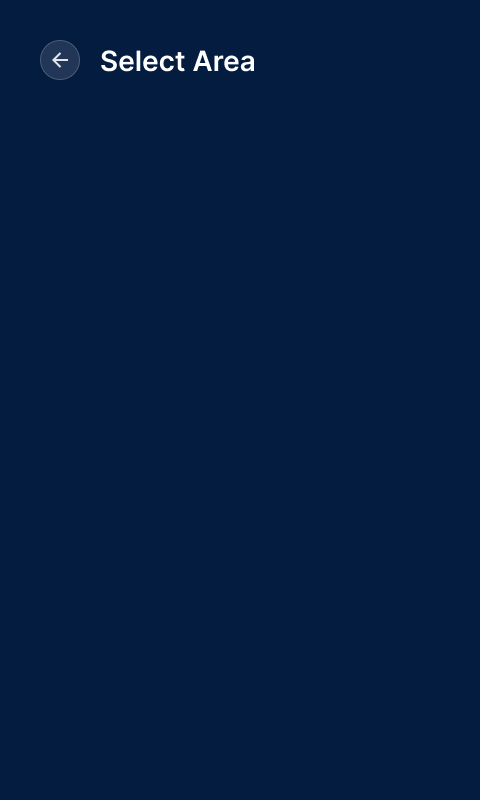
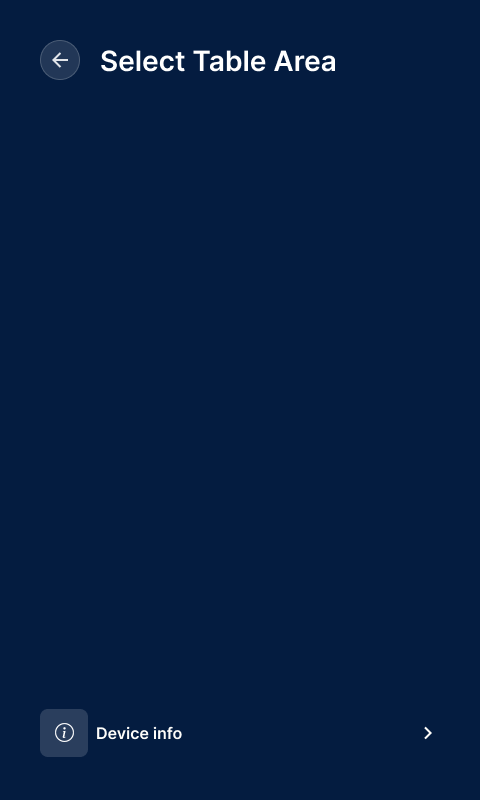
ADD: new flow

Changed region(s): [[0.0625, 0.875, 0.375, 0.9688], [0.4062, 0.0625, 0.7188, 0.0938], [0.875, 0.9062, 0.9062, 0.9375]]

diff --git a/qt-app/main.py b/qt-app/main.py
@@ -406,6 +406,66 @@ class IdleLockScreen(QDialog):
             return
         navigateToScreen(WaiterPinScreen)
 
+class WaiterSelectionScreen(QDialog):
+    shared_instance=None
+    @staticmethod
+    def getInstance():
+        if(WaiterSelectionScreen.shared_instance == None):
+            WaiterSelectionScreen.shared_instance = WaiterSelectionScreen()
+        return WaiterSelectionScreen.shared_instance
+    def __init__(self):
+        super(WaiterSelectionScreen, self).__init__()
+        loadUi("ui/WaiterSelectionScreen.ui", self)
+        self.backButton.clicked.connect(self.navigateBack)
+        self.listWidget.itemClicked.connect(self.waiterSelected)
+        self.listWidget.setStyleSheet(
+                                  "QListView"
+                                  "{"
+                                    "background-color:#041c40;"
+                                    "font-size:20px;"
+                                    "color:white;"
+                                    "border:0px;"
+                                  "}"
+                                  "QListView::item"
+                                  "{"
+                                    "background-color: #182e4f;"
+                                    "color:white;"
+                                    "margin-bottom: 15px;"
+                                    "border-radius: 10px;"
+                                    "padding: 12px 12px 12px 12px;"
+                                    "padding-top:24px;"
+                                    "padding-bottom:24px;"
+                                    "margin-right:20px;"
+                                  "}"
+                                  "QListView::item:selected"
+                                  "{"
+                                    "background-color: #c09c56;"
+                                    "color:#041C40;"
+                                  "}"
+                                  )
+    def navigateBack(self):
+        navigateGoBack()
+    def clear(self):
+        self.loadWaiters()
+        pass
+    def loadWaiters(self):
+
+        self.listWidget.clear()
+        for waiter in storage["waiters"]:
+            item = QListWidgetItem(waiter['firstName'])
+            item.setSizeHint(QSize(360, 80))
+            self.listWidget.addItem(item)
+    def waiterSelected(self,item):
+        global currentWaiter,waiterId
+        waiterName = item.text()
+        for waiter in storage["waiters"]:
+            if waiterName == waiter["firstName"]:
+                waiterId = waiter["referenceId"][1:]
+                currentWaiter = waiter
+                navigateToScreen(ChooseNumberOfGuests)
+
+
+
 class WaiterPinScreen(QDialog):
     pin=[]
     signal = pyqtSignal()
@@ -417,6 +477,9 @@ class WaiterPinScreen(QDialog):
         if(WaiterPinScreen.shared_instance == None):
             WaiterPinScreen.shared_instance = WaiterPinScreen()
         return WaiterPinScreen.shared_instance
+    
+
+
     def __init__(self):
         super(WaiterPinScreen, self).__init__()
         self.pin=[]
@@ -807,6 +870,7 @@ class AreaSelectionScreen(QDialog):
         # self.goToNextButton.clicked.connect(self.navigateToWaiterMenuScreen)
         self.listWidget.itemClicked.connect(self.tableSelected)
         self.backButton.clicked.connect(self.navigateGoBackSlot)
+        self.goToAboutScreenButton.clicked.connect(self.navigateToAboutScreen)
         self.listWidget.setStyleSheet(
                                   "QListView"
                                   "{"
@@ -846,7 +910,8 @@ class AreaSelectionScreen(QDialog):
 
     def navigateGoBackSlot(self):
         navigateGoBack()
-
+    def navigateToAboutScreen(self):
+        navigateToScreen(AboutScreen)
     def clear(self): 
         pass
         # self.confirmSelectionButton.setVisible(False)
@@ -904,7 +969,7 @@ class AreaSelectionScreen(QDialog):
     def navigateToIdleLockScreen(self):
 
         navigateToRestart()
-    
+
 class TableSelectionScreen(QDialog):
     shared_instance = None
     currentPage = 1
@@ -1045,19 +1110,22 @@ class TableSelectionScreen(QDialog):
         saveStorage()
 
 
-        if firstJourney:
-            firstJourney = False
-            navigateToScreen(IdleLockScreen)
-            return
-        self.navigateToWaiterMenuScreen()
-        
+        # if firstJourney:
+        #     firstJourney = False
+        #     navigateToScreen(IdleLockScreen)
+        #     return
+        # self.navigateToWaiterMenuScreen()
+        self.navigateToWaiterSelectionScreen()
+    def navigateToWaiterSelectionScreen(self):
+        navigateToScreen(WaiterSelectionScreen)
+
+    def navigateToChooseNumberOfGuests(self):
+        navigateToScreen(ChooseNumberOfGuests)
 
     def navigateToWaiterMenuScreen(self):
-
         navigateToScreen(WaiterMenuScreen)
     
     def navigateToIdleLockScreen(self):
-
         navigateToRestart()
 class ContinueExistingJourneyScreen(QDialog):
     shared_instance = None
@@ -1877,7 +1945,7 @@ class SplashScreen(TimeBoundScreen):
         feedbackScreen = FeedbackScreen.getInstance()
         thankYouScreen =  ThankYouScreen.getInstance()
         areaSelectionScreen = AreaSelectionScreen.getInstance()
-        
+        selectWaiterScreen  = WaiterSelectionScreen.getInstance()
         # navigateToScreen(ReserveScreen)
         # navigateToScreen(WaiterPinScreen)
         # navigateToScreen(AboutScreen)

diff --git a/qt-app/ServiceCallDebouncer.py b/qt-app/ServiceCallDebouncer.py
@@ -27,7 +27,13 @@ class ServiceCallDebouncer(object):
     def syncCalls(self):
         while(self.timer):
             if self.runnable and self.timer:
-                if((time.time() - self.timer)>3):
+
+                runIf = False
+                try:
+                    runIf = (time.time() - self.timer)>3
+                except:
+                    pass
+                if(runIf):
                     try:
                         self.runnable[0](*self.runnable[1])
                     except:
